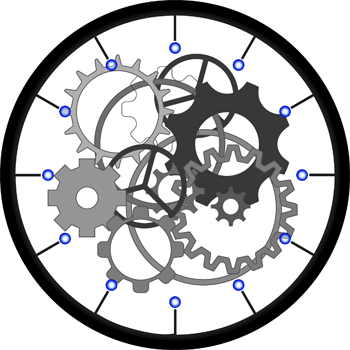
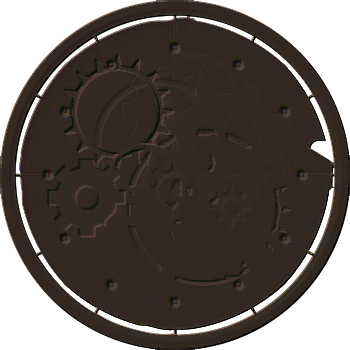
clock update

diff --git a/src/pages/home/home.scss b/src/pages/home/home.scss
@@ -247,6 +247,8 @@ page-home {
     --widthA: 350px;
     width: 40vw;
     height: 40vh;
+    margin-left: auto;
+    margin-right: auto;
     min-width: var(--widthA);
     min-height: var(--widthA);
     align-items: center;

diff --git a/src/components/clock/clock.scss b/src/components/clock/clock.scss
@@ -101,7 +101,7 @@ clock {
     background-position: center;
     background-size: 350px 350px !important;
     z-index: 1 !important;
-    opacity: 0.25;
+    opacity: 1;
   }
   .g1 {
     z-index: 30!important;
